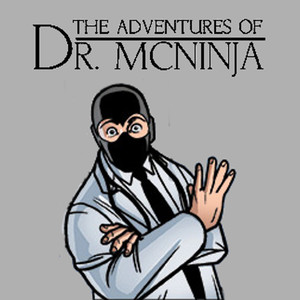
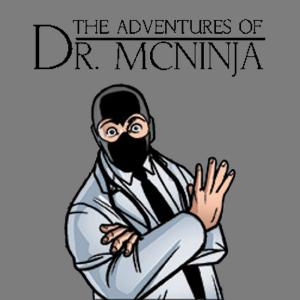
change color of The Adventures of Dr. McNinja comic
was too close from the Ahistaa comic one, next to it in the list

diff --git a/src/Comics/DrMcNinja.cpp b/src/Comics/DrMcNinja.cpp
@@ -16,7 +16,7 @@ DrMcNinja::DrMcNinja(QObject *parent) :
 {
     m_info.id             = QString("drmcninja");
     m_info.name           = QString("The Adventures of Dr. McNinja");
-    m_info.color          = QColor(176, 176, 176);
+    m_info.color          = QColor(125, 125, 125);
     m_info.authors        = QStringList("Christopher Hastings");
     m_info.homepage       = QUrl("http://drmcninja.com/");
     m_info.country        = QLocale::UnitedStates;
